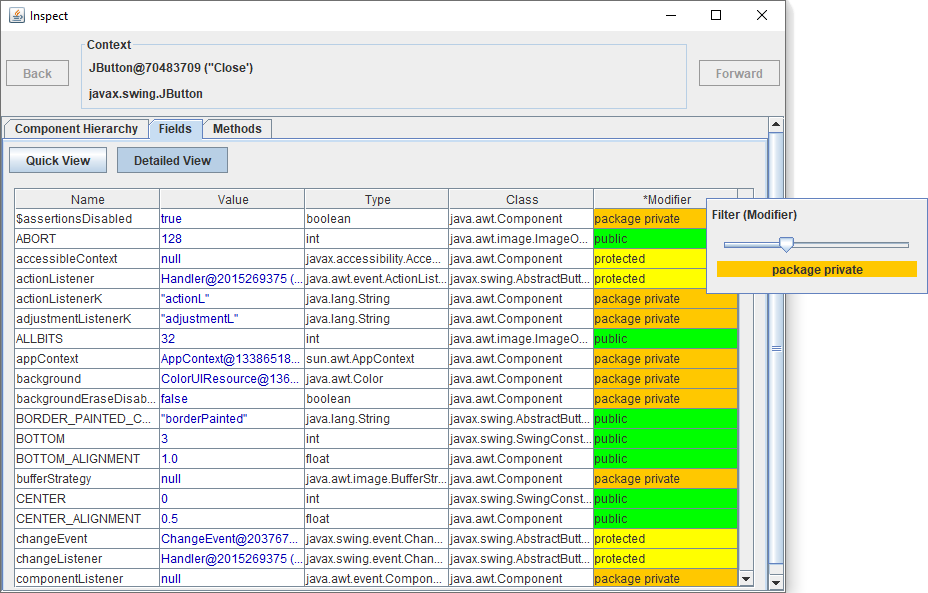
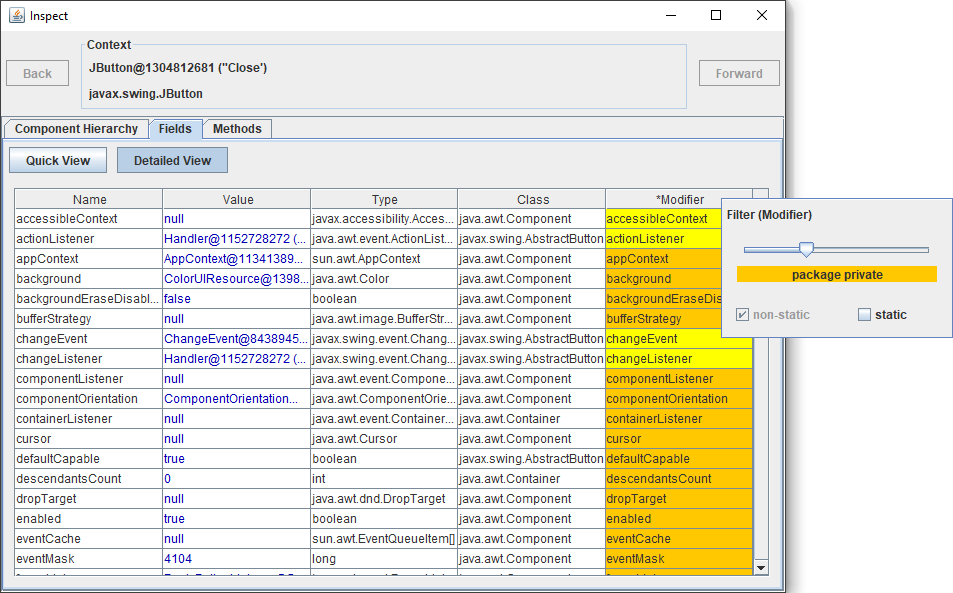
MOD FieldTable, ValueFilterModifier: Allow filtering depending on modifier "static"

diff --git a/marple/src/dd/kms/marple/impl/gui/inspector/views/methodview/MethodList.java b/marple/src/dd/kms/marple/impl/gui/inspector/views/methodview/MethodList.java
@@ -24,21 +24,21 @@ import static java.awt.GridBagConstraints.*;
 
 class MethodList extends JPanel
 {
-	private final DefaultListModel<ExecutableInfo>	listModel					= new DefaultListModel<>();
-	private final JList<ExecutableInfo>				list						= new JList<>(listModel);
-	private final JScrollPane						listScrollPane				= new JScrollPane(list);
+	private final DefaultListModel<ExecutableInfo>	listModel				= new DefaultListModel<>();
+	private final JList<ExecutableInfo>				list					= new JList<>(listModel);
+	private final JScrollPane						listScrollPane			= new JScrollPane(list);
 
-	private final JPanel							filterPanel					= new JPanel(new GridBagLayout());
-	private final JLabel							nameLabel					= new JLabel("Name:");
+	private final JPanel							filterPanel				= new JPanel(new GridBagLayout());
+	private final JLabel							nameLabel				= new JLabel("Name:");
 	private final Component							nameFilterEditor;
-	private final JLabel							accessModifierLabel			= new JLabel("Minimum access modifier:");
-	private final Component							accessModifierFilterEditor;
+	private final JLabel							accessModifierLabel		= new JLabel("Minimum access modifier:");
+	private final Component							modifierFilterEditor;
 
 	private final List<ExecutableInfo>				methodInfos;
 	private final MethodViewUtils					methodViewUtils;
 
-	private final ValueFilter						nameFilter					= ValueFilters.createWildcardFilter();
-	private final ValueFilter						accessModifierFilter		= ValueFilters.createMinimumAccessModifierFilter();
+	private final ValueFilter						nameFilter				= ValueFilters.createWildcardFilter();
+	private final ValueFilter						modifierFilter			= ValueFilters.createModifierFilter(false);
 
 	public MethodList(ObjectInfo objectInfo, InspectionContext context) {
 		super(new GridBagLayout());
@@ -46,16 +46,16 @@ class MethodList extends JPanel
 		this.methodViewUtils = new MethodViewUtils(objectInfo, context);
 
 		this.nameFilterEditor = nameFilter.getEditor();
-		this.accessModifierFilterEditor = accessModifierFilter.getEditor();
+		this.modifierFilterEditor = modifierFilter.getEditor();
 
 		add(filterPanel,	new GridBagConstraints(0, 0, 1, 1, 1.0, 0.0, CENTER, BOTH, DEFAULT_INSETS, 0, 0));
 		add(listScrollPane,	new GridBagConstraints(0, 1, 1, 1, 1.0, 1.0, CENTER, BOTH, DEFAULT_INSETS, 0, 0));
 
 		int xPos = 0;
-		filterPanel.add(nameLabel,					new GridBagConstraints(xPos++, 0, 1, 1, 0.0, 0.0, NORTHWEST, NONE, DEFAULT_INSETS, 0, 0));
-		filterPanel.add(nameFilterEditor,			new GridBagConstraints(xPos++, 0, 1, 1, 0.0, 0.0, NORTHWEST, NONE, DEFAULT_INSETS, 0, 0));
-		filterPanel.add(accessModifierLabel,		new GridBagConstraints(xPos++, 0, 1, 1, 0.0, 0.0, NORTHWEST, NONE, DEFAULT_INSETS, 0, 0));
-		filterPanel.add(accessModifierFilterEditor,	new GridBagConstraints(xPos++, 0, 1, 1, 1.0, 0.0, NORTHWEST, NONE, DEFAULT_INSETS, 0, 0));
+		filterPanel.add(nameLabel,				new GridBagConstraints(xPos++, 0, 1, 1, 0.0, 0.0, NORTHWEST, NONE, DEFAULT_INSETS, 0, 0));
+		filterPanel.add(nameFilterEditor,		new GridBagConstraints(xPos++, 0, 1, 1, 0.0, 0.0, NORTHWEST, NONE, DEFAULT_INSETS, 0, 0));
+		filterPanel.add(accessModifierLabel,	new GridBagConstraints(xPos++, 0, 1, 1, 0.0, 0.0, NORTHWEST, NONE, DEFAULT_INSETS, 0, 0));
+		filterPanel.add(modifierFilterEditor,	new GridBagConstraints(xPos++, 0, 1, 1, 1.0, 0.0, NORTHWEST, NONE, DEFAULT_INSETS, 0, 0));
 
 		filterPanel.setBorder(BorderFactory.createTitledBorder("Filters"));
 
@@ -74,7 +74,7 @@ class MethodList extends JPanel
 
 	private void addListeners() {
 		nameFilter.addFilterChangedListener(this::onFilterChanged);
-		accessModifierFilter.addFilterChangedListener(this::onFilterChanged);
+		modifierFilter.addFilterChangedListener(this::onFilterChanged);
 
 		ActionProviderListeners.addMouseListeners(list, this::getActionProvider);
 	}
@@ -88,7 +88,7 @@ class MethodList extends JPanel
 		if (nameFilter.isActive() && !nameFilter.test(methodInfo.getName())) {
 			return false;
 		}
-		if (accessModifierFilter.isActive() && !accessModifierFilter.test(methodInfo.getAccessModifier())) {
+		if (modifierFilter.isActive() && !modifierFilter.test(methodInfo)) {
 			return false;
 		}
 		return true;

diff --git a/marple/src/dd/kms/marple/impl/gui/inspector/views/methodview/MethodTable.java b/marple/src/dd/kms/marple/impl/gui/inspector/views/methodview/MethodTable.java
@@ -4,12 +4,12 @@ import dd.kms.marple.api.InspectionContext;
 import dd.kms.marple.impl.common.ReflectionUtils;
 import dd.kms.marple.impl.gui.filters.ValueFilters;
 import dd.kms.marple.impl.gui.table.*;
-import dd.kms.zenodot.api.common.AccessModifier;
 import dd.kms.zenodot.api.common.MethodScanner;
 import dd.kms.zenodot.api.common.MethodScannerBuilder;
 import dd.kms.zenodot.api.common.StaticMode;
 import dd.kms.zenodot.api.wrappers.ExecutableInfo;
 import dd.kms.zenodot.api.wrappers.InfoProvider;
+import dd.kms.zenodot.api.wrappers.MemberInfo;
 import dd.kms.zenodot.api.wrappers.ObjectInfo;
 
 import javax.swing.*;
@@ -41,18 +41,18 @@ class MethodTable extends JPanel
 		table = new ListBasedTable<>(methodInfos, columnDescriptions);
 		JTable internalTable = table.getInternalTable();
 		internalTable.getColumnModel().getColumn(1).setCellRenderer(new ActionProviderRenderer());
-		internalTable.setDefaultRenderer(AccessModifier.class, new AccessModifierRenderer());
+		internalTable.setDefaultRenderer(MemberInfo.class, new MemberInfoRenderer());
 
 		add(table, new GridBagConstraints(0, 0, 1, 1, 1.0, 1.0, GridBagConstraints.NORTHWEST, GridBagConstraints.BOTH, DEFAULT_INSETS, 0, 0));
 	}
 
 	private List<ColumnDescription<ExecutableInfo>> createColumnDescriptions() {
 		return Arrays.asList(
-			new ColumnDescriptionBuilder<ExecutableInfo>("Return Type",	String.class, 			methodInfo -> methodInfo.getReturnType().toString()					).valueFilter(ValueFilters.createWildcardFilter()).build(),
-			new ColumnDescriptionBuilder<ExecutableInfo>("Name",		Object.class, 			methodInfo -> methodViewUtils.getMethodActionProvider(methodInfo)	).valueFilter(ValueFilters.createWildcardFilter()).build(),
-			new ColumnDescriptionBuilder<ExecutableInfo>("Arguments",	String.class, 			methodInfo -> methodInfo.formatArguments()							).valueFilter(ValueFilters.createWildcardFilter()).build(),
-			new ColumnDescriptionBuilder<ExecutableInfo>("Class",		String.class, 			methodInfo -> methodInfo.getDeclaringType().toString()				).valueFilter(ValueFilters.createSelectionFilter(context)).build(),
-			new ColumnDescriptionBuilder<ExecutableInfo>("Modifier",	AccessModifier.class,	methodInfo -> methodInfo.getAccessModifier()						).valueFilter(ValueFilters.createMinimumAccessModifierFilter()).build()
+			new ColumnDescriptionBuilder<ExecutableInfo>("Return Type",	String.class, 		methodInfo -> methodInfo.getReturnType().toString()					).valueFilter(ValueFilters.createWildcardFilter()).build(),
+			new ColumnDescriptionBuilder<ExecutableInfo>("Name",		Object.class, 		methodInfo -> methodViewUtils.getMethodActionProvider(methodInfo)	).valueFilter(ValueFilters.createWildcardFilter()).build(),
+			new ColumnDescriptionBuilder<ExecutableInfo>("Arguments",	String.class, 		methodInfo -> methodInfo.formatArguments()							).valueFilter(ValueFilters.createWildcardFilter()).build(),
+			new ColumnDescriptionBuilder<ExecutableInfo>("Class",		String.class, 		methodInfo -> methodInfo.getDeclaringType().toString()				).valueFilter(ValueFilters.createSelectionFilter(context)).build(),
+			new ColumnDescriptionBuilder<ExecutableInfo>("Modifier",	MemberInfo.class,	methodInfo -> methodInfo											).valueFilter(ValueFilters.createModifierFilter(false)).build()
 		);
 	}
 }

diff --git a/marple/src/dd/kms/marple/impl/gui/inspector/views/fieldview/FieldTable.java b/marple/src/dd/kms/marple/impl/gui/inspector/views/fieldview/FieldTable.java
@@ -6,14 +6,10 @@ import dd.kms.marple.impl.actions.ActionProviderBuilder;
 import dd.kms.marple.impl.common.ReflectionUtils;
 import dd.kms.marple.impl.gui.filters.ValueFilters;
 import dd.kms.marple.impl.gui.table.*;
-import dd.kms.zenodot.api.common.AccessModifier;
 import dd.kms.zenodot.api.common.FieldScanner;
 import dd.kms.zenodot.api.common.FieldScannerBuilder;
 import dd.kms.zenodot.api.common.StaticMode;
-import dd.kms.zenodot.api.wrappers.FieldInfo;
-import dd.kms.zenodot.api.wrappers.InfoProvider;
-import dd.kms.zenodot.api.wrappers.ObjectInfo;
-import dd.kms.zenodot.api.wrappers.TypeInfo;
+import dd.kms.zenodot.api.wrappers.*;
 
 import javax.swing.*;
 import java.awt.*;
@@ -42,18 +38,18 @@ public class FieldTable extends JPanel
 		table = new ListBasedTable<>(fieldInfos, columnDescriptions);
 		JTable internalTable = table.getInternalTable();
 		internalTable.getColumnModel().getColumn(1).setCellRenderer(new ActionProviderRenderer());
-		internalTable.setDefaultRenderer(AccessModifier.class, new AccessModifierRenderer());
+		internalTable.setDefaultRenderer(MemberInfo.class, new MemberInfoRenderer());
 
 		add(table, new GridBagConstraints(0, 0, 1, 1, 1.0, 1.0, GridBagConstraints.NORTHWEST, GridBagConstraints.BOTH, DEFAULT_INSETS, 0, 0));
 	}
 
 	private List<ColumnDescription<FieldInfo>> createColumnDescriptions() {
 		return Arrays.asList(
-			new ColumnDescriptionBuilder<FieldInfo>("Name",		String.class,			fieldInfo -> fieldInfo.getName())						.valueFilter(ValueFilters.createWildcardFilter()).build(),
-			new ColumnDescriptionBuilder<FieldInfo>("Value",	ActionProvider.class, 	fieldInfo -> getFieldValueActionProvider(fieldInfo))	.valueFilter(ValueFilters.createWildcardFilter()).build(),
-			new ColumnDescriptionBuilder<FieldInfo>("Type",		TypeInfo.class,			fieldInfo -> fieldInfo.getType())						.valueFilter(ValueFilters.createWildcardFilter()).build(),
-			new ColumnDescriptionBuilder<FieldInfo>("Class",	TypeInfo.class,			fieldInfo -> fieldInfo.getDeclaringType())				.valueFilter(ValueFilters.createSelectionFilter(context)).build(),
-			new ColumnDescriptionBuilder<FieldInfo>("Modifier",	AccessModifier.class,	fieldInfo -> fieldInfo.getAccessModifier())				.valueFilter(ValueFilters.createMinimumAccessModifierFilter()).build()
+			new ColumnDescriptionBuilder<FieldInfo>("Name",		String.class,			fieldInfo -> fieldInfo.getName()					).valueFilter(ValueFilters.createWildcardFilter()).build(),
+			new ColumnDescriptionBuilder<FieldInfo>("Value",	ActionProvider.class, 	fieldInfo -> getFieldValueActionProvider(fieldInfo)	).valueFilter(ValueFilters.createWildcardFilter()).build(),
+			new ColumnDescriptionBuilder<FieldInfo>("Type",		TypeInfo.class,			fieldInfo -> fieldInfo.getType()					).valueFilter(ValueFilters.createWildcardFilter()).build(),
+			new ColumnDescriptionBuilder<FieldInfo>("Class",	TypeInfo.class,			fieldInfo -> fieldInfo.getDeclaringType()			).valueFilter(ValueFilters.createSelectionFilter(context)).build(),
+			new ColumnDescriptionBuilder<FieldInfo>("Modifier",	MemberInfo.class,		fieldInfo -> fieldInfo								).valueFilter(ValueFilters.createModifierFilter(true)).build()
 		);
 	}
 

diff --git a/marple/src/dd/kms/marple/impl/gui/filters/ValueFilterModifier.java b/marple/src/dd/kms/marple/impl/gui/filters/ValueFilterModifier.java
@@ -1,0 +1,83 @@
+package dd.kms.marple.impl.gui.filters;
+
+import dd.kms.marple.impl.gui.common.AccessModifierInput;
+import dd.kms.zenodot.api.common.AccessModifier;
+import dd.kms.zenodot.api.wrappers.MemberInfo;
+
+import javax.swing.*;
+import java.awt.*;
+
+import static dd.kms.marple.impl.gui.common.GuiCommons.DEFAULT_INSETS;
+import static java.awt.GridBagConstraints.*;
+
+class ValueFilterModifier extends AbstractValueFilter
+{
+	private final boolean	configureStaticMode;
+
+	private AccessModifier	minimumAccessModifier	= AccessModifier.PRIVATE;
+	private boolean			allowStaticModifiers	= false;
+
+	ValueFilterModifier(boolean configureStaticMode) {
+		this.configureStaticMode = configureStaticMode;
+		allowStaticModifiers = configureStaticMode ? false : true;
+	}
+
+	@Override
+	public boolean isActive() {
+		return minimumAccessModifier != AccessModifier.PRIVATE || !allowStaticModifiers;
+	}
+
+	@Override
+	public void addAvailableValue(Object o) {
+		/* do nothing */
+	}
+
+	@Override
+	public Component getEditor() {
+		AccessModifierInput accessModifierInput = new AccessModifierInput();
+		accessModifierInput.setAccessModifier(minimumAccessModifier);
+
+		accessModifierInput.addChangeListener(e -> setMinimumAccessModifier(accessModifierInput.getAccessModifier()));
+
+		if (!configureStaticMode) {
+			return accessModifierInput;
+		}
+
+		JPanel panel = new JPanel(new GridBagLayout());
+
+		JCheckBox nonStaticModifiersCheckBox = new JCheckBox("non-static");
+		nonStaticModifiersCheckBox.setSelected(true);
+		nonStaticModifiersCheckBox.setEnabled(false);
+
+		JCheckBox staticModifiersCheckBox = new JCheckBox("static");
+		staticModifiersCheckBox.setSelected(allowStaticModifiers);
+
+		staticModifiersCheckBox.addItemListener(e -> setAllowStaticModifiers(staticModifiersCheckBox.isSelected()));
+
+		panel.add(accessModifierInput,			new GridBagConstraints(0, 0, REMAINDER, 1, 1.0, 0.0, WEST, NONE, DEFAULT_INSETS, 0, 0));
+		panel.add(nonStaticModifiersCheckBox,	new GridBagConstraints(0, 1, 1, 1, 1.0, 0.0, WEST, NONE, DEFAULT_INSETS, 0, 0));
+		panel.add(staticModifiersCheckBox,		new GridBagConstraints(1, 1, 1, 1, 1.0, 0.0, WEST, NONE, DEFAULT_INSETS, 0, 0));
+
+		return panel;
+	}
+
+	@Override
+	public boolean test(Object o) {
+		if (o instanceof MemberInfo) {
+			MemberInfo memberInfo = (MemberInfo) o;
+			return memberInfo.getAccessModifier().compareTo(minimumAccessModifier) <= 0
+				&& (!memberInfo.isStatic() || allowStaticModifiers);
+		}
+		return false;
+	}
+
+	private void setMinimumAccessModifier(AccessModifier minimumAccessModifier) {
+		this.minimumAccessModifier = minimumAccessModifier;
+		fireFilterChanged();
+	}
+
+	private void setAllowStaticModifiers(boolean allowStaticModifiers) {
+		this.allowStaticModifiers = allowStaticModifiers;
+		fireFilterChanged();
+	}
+}

diff --git a/marple-tests/test/dd/kms/marple/TestData.java b/marple-tests/test/dd/kms/marple/TestData.java
@@ -15,6 +15,32 @@ class TestData
 		return IntStream.range(0, size).mapToObj(i -> generator.nextDouble());
 	}
 
+	public static int getPublicStaticInt() {
+		return PUBLIC_STATIC_INT;
+	}
+
+	protected static int getProtectedStaticInt() {
+		return PROTECTED_STATIC_INT;
+	}
+
+	static int getPackagePrivateStaticInt() {
+		return PACKAGE_PRIVATE_STATIC_INT;
+	}
+
+	private static int getPrivateStaticInt() {
+		return PRIVATE_STATIC_INT;
+	}
+
+	public static final int		PUBLIC_STATIC_INT			= 1;
+	protected static final int	PROTECTED_STATIC_INT		= 2;
+	static final int			PACKAGE_PRIVATE_STATIC_INT	= 3;
+	private static final int	PRIVATE_STATIC_INT			= 4;
+
+	public final int			publicInt					= 5;
+	protected final int			protectedInt				= 6;
+	final int					packagePrivateInt			= 7;
+	private final int			privateInt					= 8;
+
 	private final List<Double>				demoList		= randomStream(12345).collect(Collectors.toList());
 	private final double[]					demoArray 		= randomStream(12345).mapToDouble(d -> d).toArray();
 	private final Iterable<Integer>			demoIterable	= new InfiniteIterable();
@@ -33,6 +59,22 @@ class TestData
 		demoMultimap.put("C", 4);
 		demoMultimap.put("C", 5);
 		demoMultimap.put("C", 6);
+	}
+
+	public int getPublicInt() {
+		return publicInt;
+	}
+
+	protected int getProtectedInt() {
+		return protectedInt;
+	}
+
+	int getPackagePrivateInt() {
+		return packagePrivateInt;
+	}
+
+	private int getPrivateInt() {
+		return privateInt;
 	}
 
 	private static class InfiniteIterable implements Iterable<Integer>

diff --git a/marple/src/dd/kms/marple/impl/gui/table/MemberInfoRenderer.java b/marple/src/dd/kms/marple/impl/gui/table/MemberInfoRenderer.java
@@ -1,18 +1,19 @@
 package dd.kms.marple.impl.gui.table;
 
 import dd.kms.marple.impl.gui.common.GuiCommons;
-import dd.kms.zenodot.api.common.AccessModifier;
+import dd.kms.zenodot.api.wrappers.MemberInfo;
 
 import javax.swing.*;
 import javax.swing.table.TableCellRenderer;
 import java.awt.*;
 
-public class AccessModifierRenderer extends JLabel implements TableCellRenderer
+public class MemberInfoRenderer extends JLabel implements TableCellRenderer
 {
 	@Override
 	public Component getTableCellRendererComponent(JTable table, Object value, boolean isSelected, boolean hasFocus, int row, int column) {
 		setText(value.toString());
-		Color color = GuiCommons.getAccessModifierColor((AccessModifier) value);
+		MemberInfo memberInfo = (MemberInfo) value;
+		Color color = GuiCommons.getAccessModifierColor(memberInfo.getAccessModifier());
 		setFont(getFont().deriveFont(0));
 		setBackground(color == null ? Color.BLACK : color);
 		setOpaque(true);

diff --git a/marple/src/dd/kms/marple/impl/gui/filters/ValueFilters.java b/marple/src/dd/kms/marple/impl/gui/filters/ValueFilters.java
@@ -16,7 +16,7 @@ public class ValueFilters
 		return new ValueFilterWildcard();
 	}
 
-	public static ValueFilter createMinimumAccessModifierFilter() { return new ValueFilterMinimumAccessModifier(); }
+	public static ValueFilter createModifierFilter(boolean configureStaticMode) { return new ValueFilterModifier(configureStaticMode); }
 
 	private static class NoTableValueFilter implements ValueFilter
 	{

diff --git a/README.md b/README.md
@@ -381,7 +381,7 @@ If there are many fields and you have to search for a field, then the "Detailed 
 
 ![Fields Tab Detailed View](images/inspection_dialog/fields_tab/detailed_view.png)
 
-In the "Detailed View" you can sort fields by name, value, type, declaring class, or visibility modifier. For this, you simply left-click onto the corresponding column header. You can also filter fields by specifying filters for one ore more columns. For this, right-click onto the corresponding column headers and configure the filter. There are three types of filters:
+In the "Detailed View" you can sort fields by name, value, type, declaring class, or modifier. For this, you simply left-click onto the corresponding column header. You can also filter fields by specifying filters for one ore more columns. For this, right-click onto the corresponding column headers and configure the filter. There are three types of filters:
 
   * Text-based filters match String representations of objects against the specified filter text:<br/>
   ![Fields Tab Detailed View Text Filter](images/inspection_dialog/fields_tab/detailed_view/text_filter.png)<br/>
@@ -390,7 +390,7 @@ In the "Detailed View" you can sort fields by name, value, type, declaring class
   * Selection-based filters provide a set of possible values from which you can select one or more values:<br/>
   ![Fields Tab Detailed View Selection Filter](images/inspection_dialog/fields_tab/detailed_view/selection_filter.png)
    
-  * The modifier filter allows you to specify the minimum visibility a field should have in order to be shown in the table:<br/>
+  * The modifier filter allows you to specify the minimum visibility a field should have in order to be shown in the table. Additionally, you can specify whether to show static fields or not:<br/>
   ![Fields Tab Detailed View Modifier Filter](images/inspection_dialog/fields_tab/detailed_view/modifier_filter.png)
 
 ## Methods Tab
